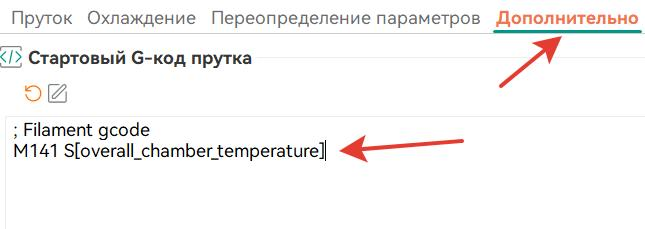
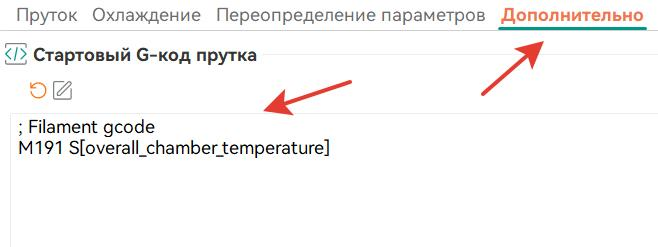
m191

Changed region(s): [[0.0, 0.0306, 1.0, 0.7031], [0.4031, 0.3057, 0.5581, 0.4891]]

diff --git a/ferma/readme.md b/ferma/readme.md
@@ -76,7 +76,7 @@ gcode:
 для того чтобы не ждать набора температура в камере перед печатью но данные о температуре передавались  можно в профиле пластика добавить: 
 
 ```
-M141 S[overall_chamber_temperature]
+M191 S[overall_chamber_temperature]
 ```
 получится как то так
 
